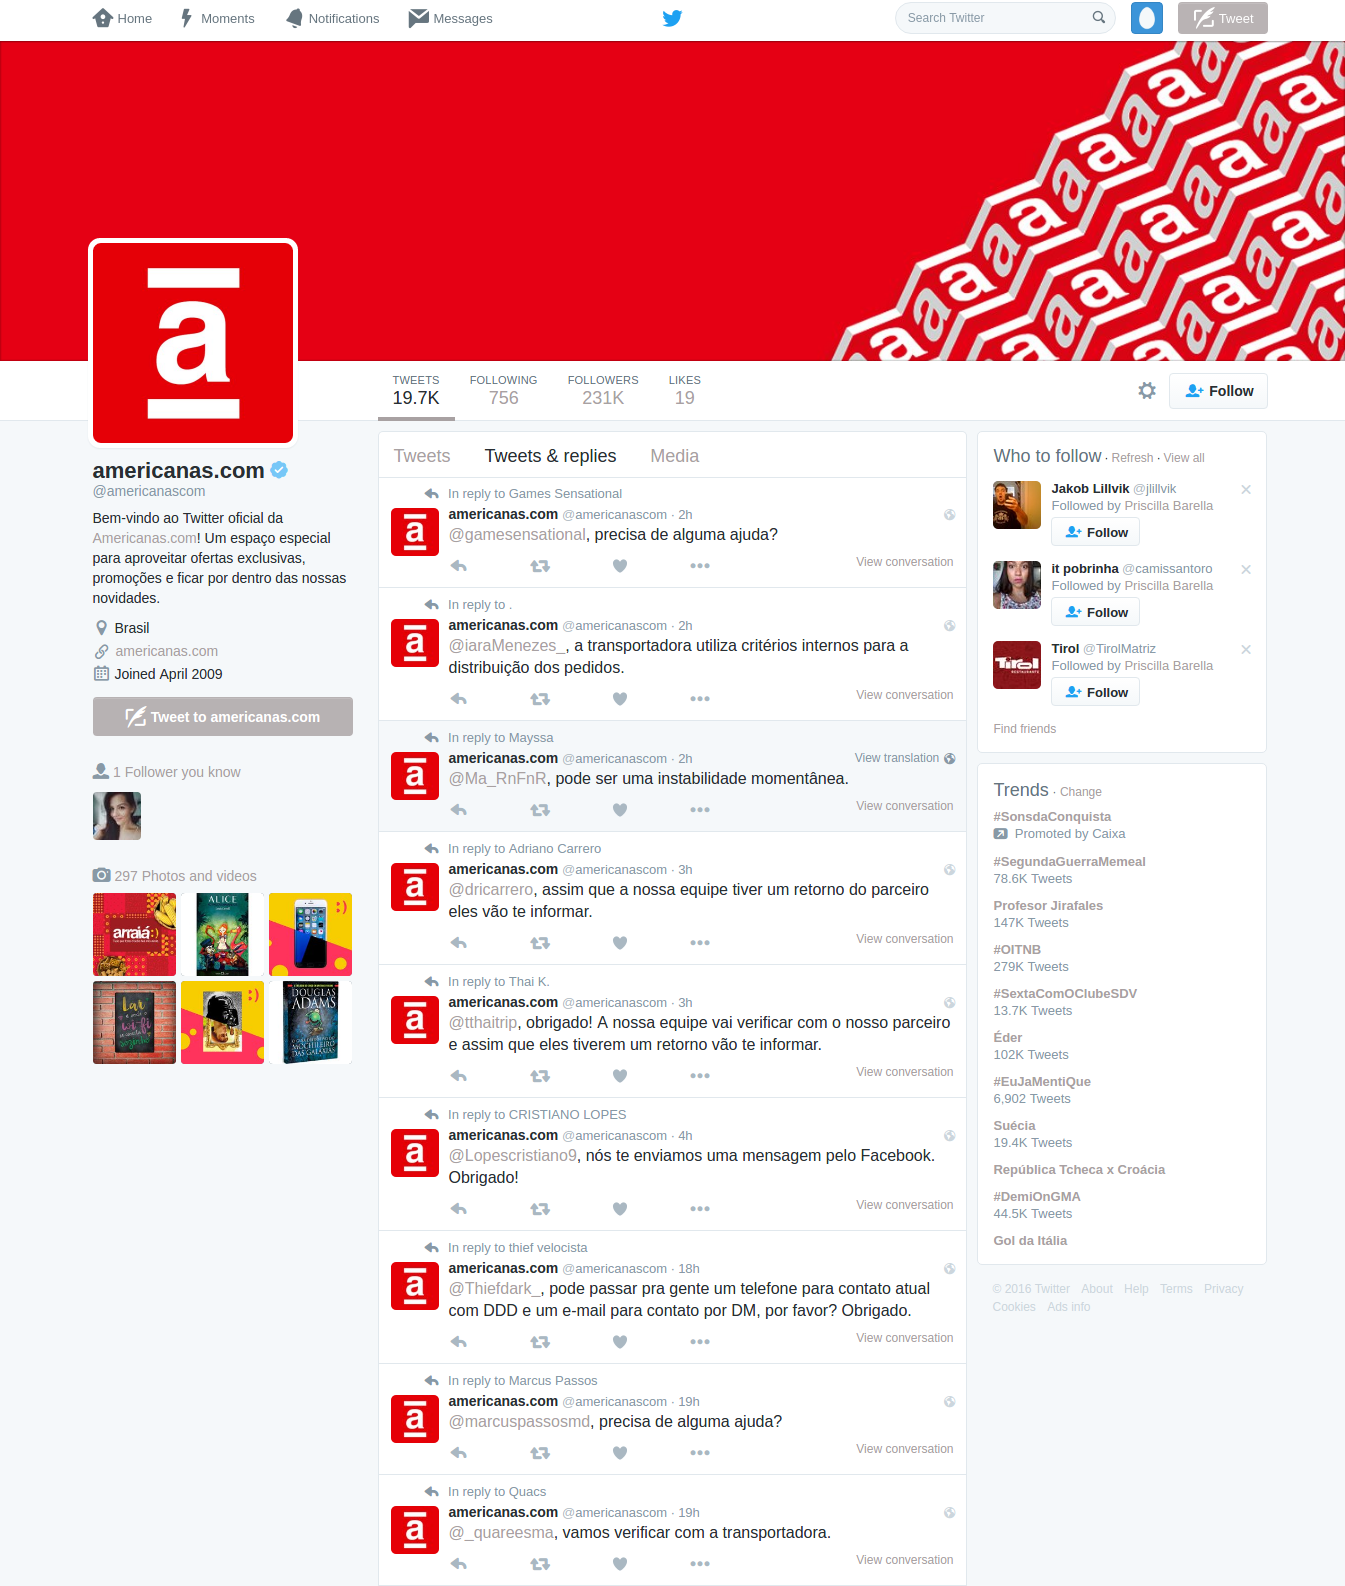
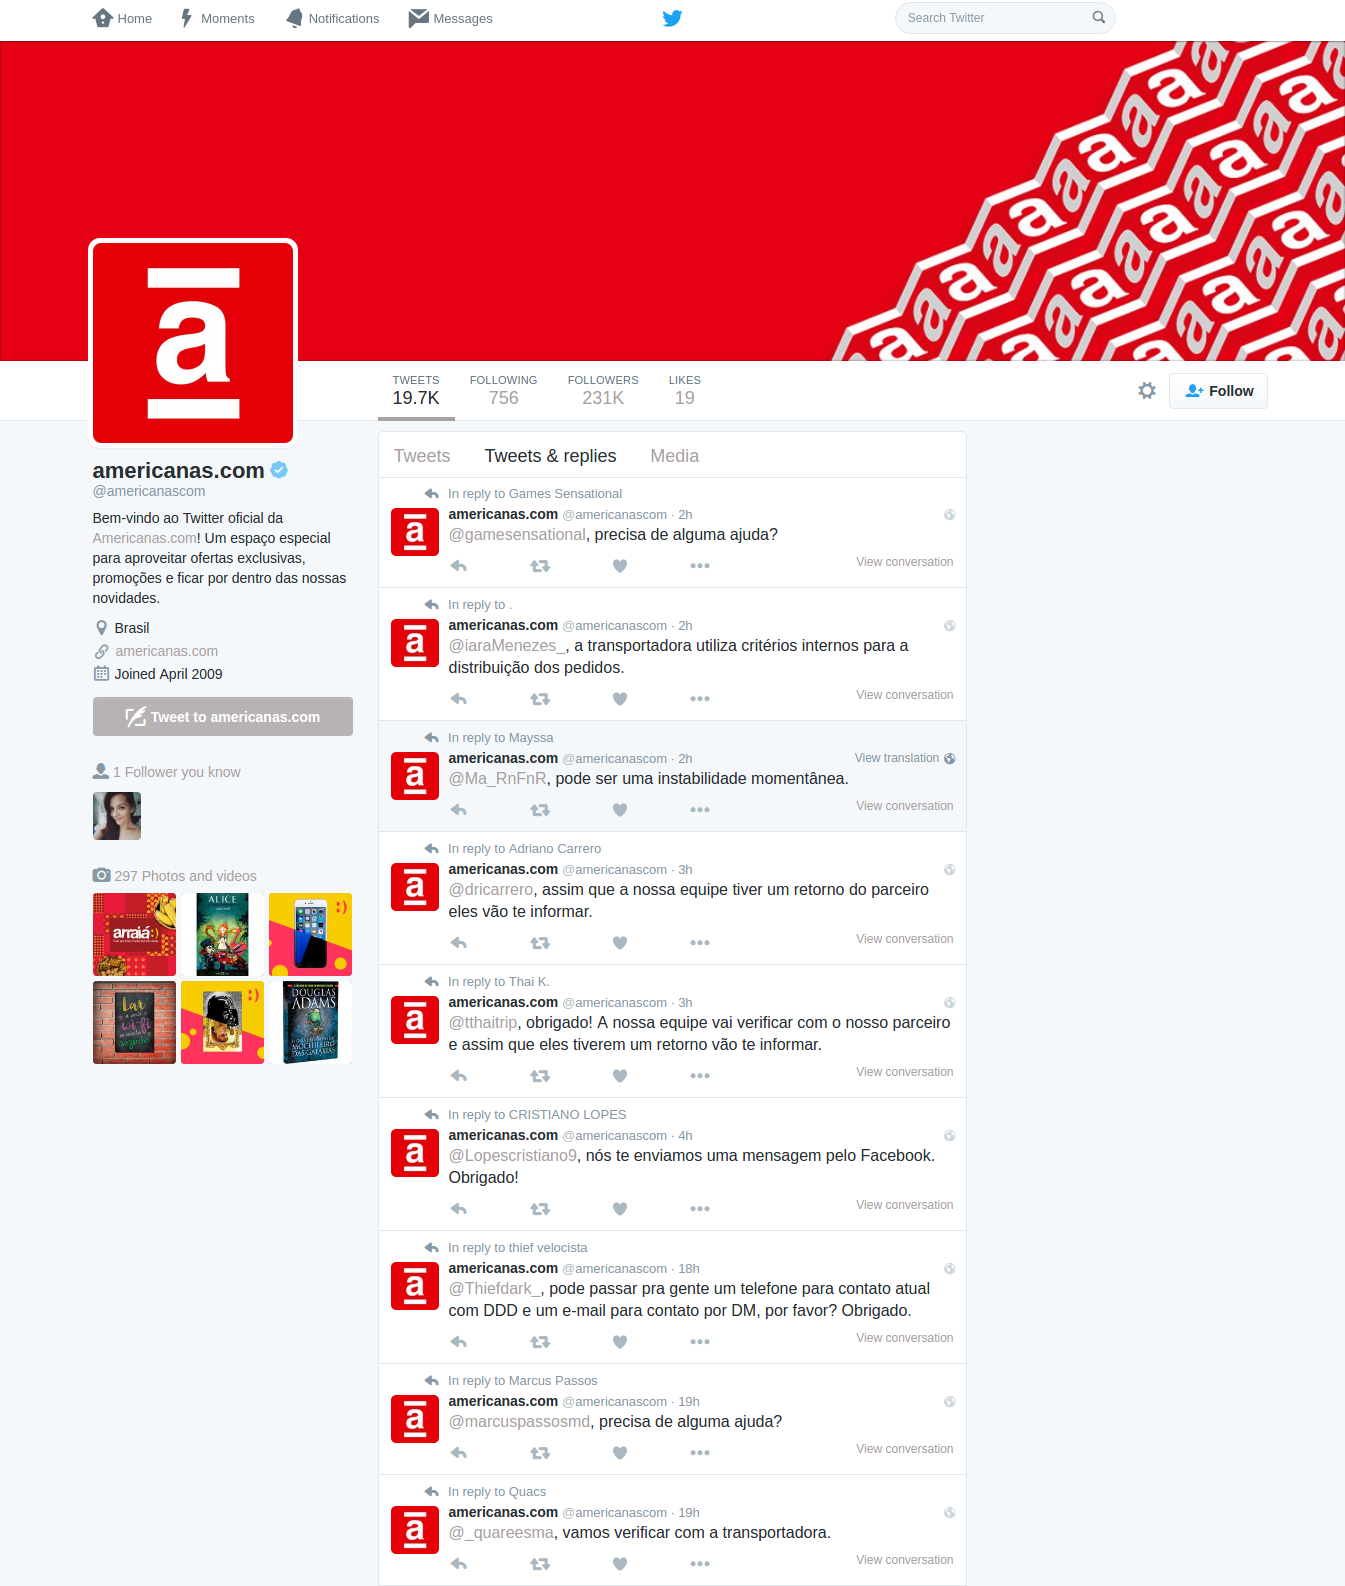
simplificando o teste

Changed region(s): [[0.7182, 0.2781, 0.9056, 0.4634], [0.7182, 0.4943, 0.8431, 0.8342], [0.8431, 0.0, 0.968, 0.0309]]

diff --git a/README.md b/README.md
@@ -13,7 +13,7 @@ Desenvolva uma linha do tempo do clone do Twitter seguindo a imagem anexada. Sua
 - Caso haja necessidade, pode utilizar um Task Manager. Sugerimos o Gulp :)
 - Escreve testes unitários :)
 
-##### 3 Pontos
+##### 5 Pontos
 
 Use a API do Twitter para criar sua linha do tempo. Seu cronograma deve incluir uma lista de tweets recentes do @ americanocom (conteúdo principal), foto da capa e foto do perfil.
 
@@ -28,10 +28,6 @@ Chame a API do Flickr e obtenha a primeira imagem com base no #hashtag que você
 ##### 2 Pontos
 
 Adicione outras informações como contagem de tweets, seguidores, seguidores e curtidas. Desenvolva a paginação infinita.
-
-##### 2 Pontos
-
-Adicione caixa de seguidores, caixa de fotos e vídeos e caixa de tendências.
 
 ### Sugestão
 
